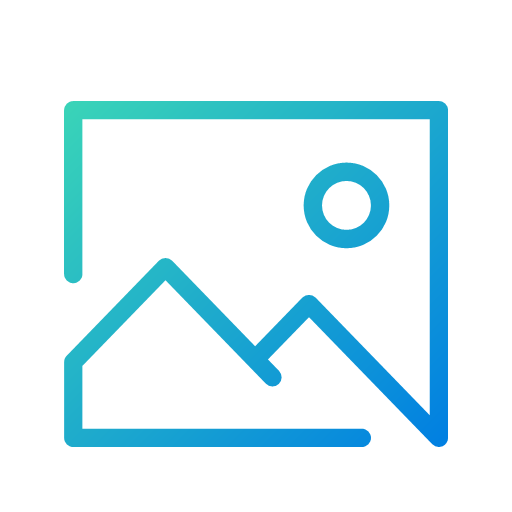
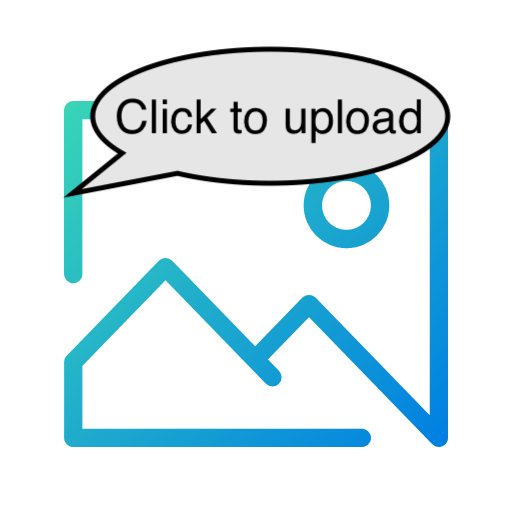
updated how posts look

Changed region(s): [[0.125, 0.0625, 0.9062, 0.4062]]

diff --git a/src/client/src/components/PostForm.js b/src/client/src/components/PostForm.js
@@ -18,7 +18,6 @@ const PostForm = () => {
         const file = e.target.files[0]
         const base64 = await convertToBase64(file)
         setImage(base64)
-        console.log(base64)
     }
 
     const handleSubmit = async (e) => {
@@ -46,6 +45,7 @@ const PostForm = () => {
 
         }
         if (response.ok) {
+            setTitle('')
             setImage('')
             setCaption('')
             setError(null)
@@ -67,22 +67,16 @@ const PostForm = () => {
                 className={emptyFields.includes('title') ? 'error' : ''}
             />
 
-            <label> 
-                <img src={image|| imageIcon} alt="" />
+            <label htmlFor="file-upload" className="custom-file-upload"> 
+                <img className="uploaded-image" src={image|| imageIcon} alt="" />
             </label>
-            <input 
+            <input className = "upload-image" 
                 type="file" 
                 label="image"
                 name="image"
                 id="file-upload"
                 accept=",jpeg, .png, .jpeg"
                 onChange={(e) => handleFileUpload(e)}
-
-
-                // type="text"
-                // onChange={(e) => setImage(e.target.value)}
-                // value = {image}
-                // className={emptyFields.includes('image') ? 'error' : ''}
             />
 
             <label> Post caption:</label>

diff --git a/src/client/src/index.css b/src/client/src/index.css
@@ -61,12 +61,19 @@ header a:hover {
 .post-details h4 {
   margin: 0 0 10px 0;
   font-size: 1.2em;
-  color: var(--primary);
+  color: #000000;
+}
+div.username-caption {
+  display: flex; 
+  /* justify-content: space-between; */
 }
 .post-details p {
   margin: 10px 0px;
   font-size: 0.9em;
   color: #555;
+}
+p.username {
+  color: var(--primary);
 }
 .post-details a {
   text-decoration: none;
@@ -79,12 +86,23 @@ header a:hover {
   color: #4c4c4c;
 }
 .post-details span:hover {
-  color: var(--error);;
+  color: var(--error);
+}
+.post-details img {
+  text-align: center;
 }
 
 /* new workout form */
+h3{
+  text-align: center;
+}
 label, input {
   display: block;
+  text-align: center;
+}
+.custom-file-upload {
+  cursor: pointer;
+  text-align: center;
 }
 input {
   padding: 10px;
@@ -94,6 +112,9 @@ input {
   border: 1px solid #ddd;
   border-radius: 4px;
   box-sizing: border-box;
+}
+input[type="file"]{
+  display: none
 }
 form button {
   background: var(--primary);
@@ -114,4 +135,16 @@ div.error {
 }
 input.error {
   border: 1px solid var(--error);
+}
+.uploaded-image {
+  text-align: center;
+}
+img {
+  border-radius: 4px;
+  padding: 5px;
+  width: 200px;
+  text-align: center;
+}
+div.image{
+  text-align: center;
 }

diff --git a/src/client/src/App.js b/src/client/src/App.js
@@ -23,27 +23,23 @@ function App() {
             <Route 
               exact path ="/"
               element = {user ? <Home /> : <Navigate to="/login" />}
-              />
+            />
             <Route 
-              exact path="/login" 
+              path="/login" 
               element = {!user ? <Login/> : <Navigate to="/" />}
             />
             <Route 
-              exact path="/signup" 
+              path="/signup" 
               element = {!user ? <SignUp/> : <Navigate to="/" />}
             />
             <Route 
-              exact path ="/MyProfile"
+              path ="/MyProfile"
               element = {user ? <MyProfile /> : <Navigate to="/login" />}
             />
             <Route 
-              exact path="/post/:id" 
+              path="/post/:id" 
               element = {user ? <SinglePost/> : <Navigate to="/login" />}
             />
-            {/* <Route
-              path="*"
-              element = {user ? <NoMatch/> : <Navigate to="/" />}
-            /> */}
             <Route path="*" element={ <NoMatch/> } />
           </Routes>
         </div>

diff --git a/src/client/src/components/PostDetails.js b/src/client/src/components/PostDetails.js
@@ -48,10 +48,14 @@ const PostDetails = ({ post }) => {
             {/* <span className="material-symbols-outlined" onClick={handleDelete}>delete</span> */}
             <Link to={`/post/${post._id}`}>
                 <h4>{post.title}</h4>
-                <img src={post.image} alt={post.caption}></img>
+                <div className="image">
+                    <img src={post.image} alt={post.caption}></img>
+                </div>
             </Link>
-            <p>posted by {post.username}</p>
-            <p>{post.caption}</p>
+            <div className="username-caption">
+                <p className="username">{post.username }&ensp;</p>
+                <p className="caption">{post.caption}</p>
+            </div>
             {/* <span className="material-symbols-outlined" onClick={handleFavorite}>favorite</span> */}
             <p><strong>Likes: </strong> {post.likes}</p>
             <p>{formatDistanceToNow(new Date(post.createdAt), { addSuffix: true })}</p>
